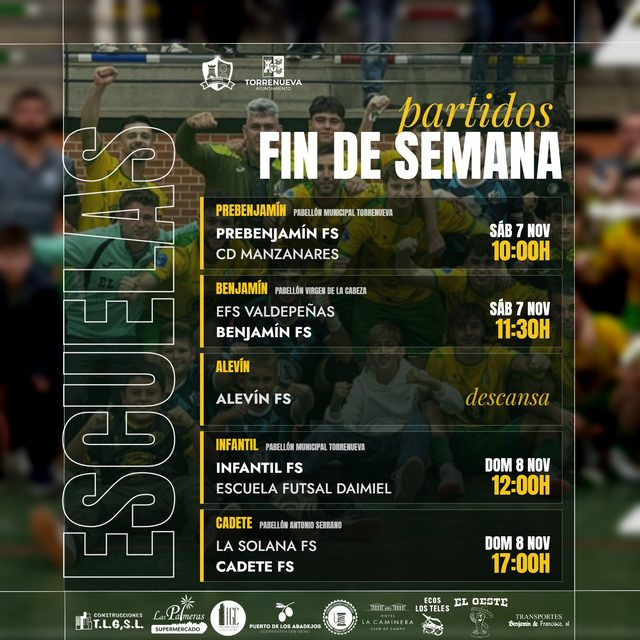
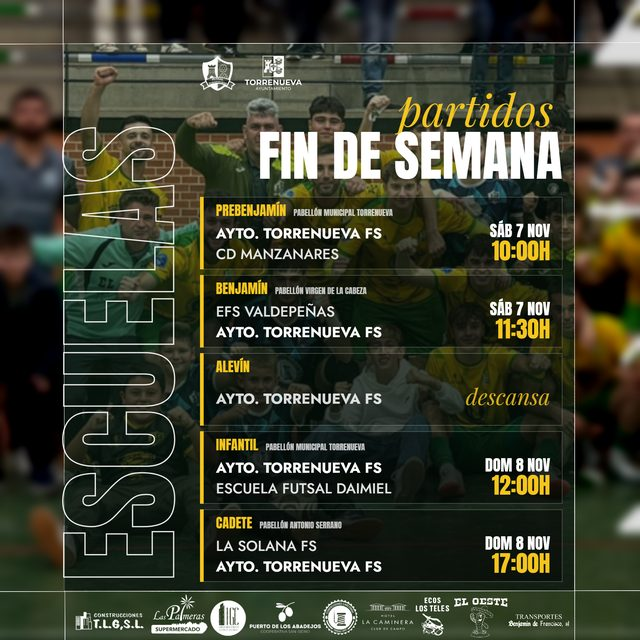
Escuelas: nuestro equipo como "AYTO. TORRENUEVA FS"
La categoría ya va en la etiqueta amarilla de cada tarjeta, así que no se repite en el
nombre. En el texto de Instagram va delante de cada partido. Se equilibra el espacio de
las tarjetas del story para el nombre más largo.

diff --git a/js/escuelas.js b/js/escuelas.js
@@ -1,6 +1,7 @@
 /* Escuelas deportivas (del ayuntamiento, no del Torrenueva Futsal): lo común a las
    plantillas de partidos y resultados.
-   - Cinco categorías; nuestro equipo en cada una es "<CATEGORÍA> FS".
+   - Cinco categorías; nuestro equipo es "AYTO. TORRENUEVA FS" en todas (la categoría ya
+     va en la etiqueta amarilla de cada tarjeta, para no repetirla).
    - Diseño propio, más atrevido que el del sénior (solo comparte el cuadro de líneas y los
      patrocinadores): foto con tinte verde del club, "ESCUELAS" en vertical con contorno a
      la izquierda, logos del club y del ayuntamiento y título arriba, y una tarjeta por
@@ -17,7 +18,10 @@ const Escuelas = (() => {
     { id: "infantil", nombre: "INFANTIL", corto: "Infantil" },
     { id: "cadete", nombre: "CADETE", corto: "Cadete" },
   ];
-  const nuestro = (i) => `${CATEGORIAS[i].nombre} FS`;
+  const NUESTRO = "AYTO. TORRENUEVA FS";
+  const nuestro = () => NUESTRO;
+  // "Alevín" para los textos.
+  const categoria = (i) => CATEGORIAS[i].nombre.charAt(0) + CATEGORIAS[i].nombre.slice(1).toLowerCase();
 
   const LOGOS = { club: "assets/club/escudo-blanco.png", ayuntamiento: "assets/club/ayuntamiento-blanco.png" };
   const AMARILLO = "#f4c51d";
@@ -116,6 +120,7 @@ const Escuelas = (() => {
   function pintarTarjeta(ctx, i, x0, x1, y, h, modo) {
     const e = estado.escuelas[i];
     const k = Math.min(h, 400) / 236;
+    const kd = Math.min(k, 1.3); // lo de la derecha (día, hora, goles) crece menos, para dejar sitio a los nombres
     const top = y + (h - 236 * k) / 2; // contenido centrado si la tarjeta es más alta
     const pad = 40 * k;
 
@@ -148,14 +153,14 @@ const Escuelas = (() => {
     const filas = [top + 135 * k, top + 202 * k];
     const tamNombre = tam(ctx, FUTURA(700), "H", 33 * k);
     // En partidos se deja a la derecha sitio para el día y la hora.
-    const anchoNombres = (derecha - xt) * (modo === "partidos" ? 0.56 : 0.8);
+    const anchoNombres = (derecha - xt) * (modo === "partidos" ? 0.6 : 0.8);
 
     if (!e.juega) {
       ctx.globalAlpha = 0.85;
-      Estudio.textoAjustado(ctx, nuestro(i), FUTURA(700), tamNombre, xt, filas[0] + 30 * k, anchoNombres);
+      Estudio.textoAjustado(ctx, nuestro(i), FUTURA(700), tamNombre, xt, filas[0] + 30 * k, (derecha - xt) * 0.58);
       ctx.fillStyle = AMARILLO;
       ctx.textAlign = "right";
-      ctx.font = PLAYFAIR_CURSIVA(tam(ctx, PLAYFAIR_CURSIVA, "d", 58 * k));
+      ctx.font = PLAYFAIR_CURSIVA(tam(ctx, PLAYFAIR_CURSIVA, "d", 58 * kd));
       ctx.fillText("descansa", derecha, filas[0] + 34 * k);
       ctx.fillStyle = "#fff";
       ctx.globalAlpha = 1;
@@ -175,10 +180,10 @@ const Escuelas = (() => {
       // A la derecha: el día grande y la hora en amarillo.
       ctx.textAlign = "right";
       const dia = fechaCorta(e.fecha);
-      if (dia) Estudio.textoAjustado(ctx, dia, ANTON, tam(ctx, ANTON, "H", 44 * k), derecha, filas[0] - 4 * k, (derecha - xt) * 0.32);
+      if (dia) Estudio.textoAjustado(ctx, dia, ANTON, tam(ctx, ANTON, "H", 44 * kd), derecha, filas[0] - 4 * k, (derecha - xt) * 0.34);
       if (e.hora) {
         ctx.fillStyle = AMARILLO;
-        ctx.font = ANTON(tam(ctx, ANTON, "H", 64 * k));
+        ctx.font = ANTON(tam(ctx, ANTON, "H", 64 * kd));
         ctx.fillText(`${e.hora}H`, derecha, filas[1] + 4 * k);
         ctx.fillStyle = "#fff";
       }
@@ -187,7 +192,7 @@ const Escuelas = (() => {
       const goles = e.enCasa ? [e.gn, e.gr] : [e.gr, e.gn];
       const hay = goles.some((g) => String(g) !== "");
       ctx.textAlign = "right";
-      ctx.font = PLAYFAIR(tam(ctx, PLAYFAIR, "0", 54 * k));
+      ctx.font = PLAYFAIR(tam(ctx, PLAYFAIR, "0", 54 * kd));
       equipos.forEach((eq, f) => {
         ctx.fillStyle = eq.nuestro ? AMARILLO : "#fff";
         ctx.fillText(hay ? String(goles[f] || 0) : "–", derecha, filas[f] + 6 * k);
@@ -280,7 +285,7 @@ const Escuelas = (() => {
             <input type="text" data-campo="lugar" autocomplete="off">
           </label>` : `
           <div class="fila">
-            <label>Goles ${c.nombre.toLowerCase()} FS <input type="number" data-campo="gn" inputmode="numeric" min="0"></label>
+            <label>Goles Ayto. Torrenueva <input type="number" data-campo="gn" inputmode="numeric" min="0"></label>
             <label>Goles rival <input type="number" data-campo="gr" inputmode="numeric" min="0"></label>
           </div>`}
         </div>`;
@@ -349,5 +354,5 @@ const Escuelas = (() => {
     activar(0);
   }
 
-  return { CATEGORIAS, DISENOS, nuestro, enOrden, enOrdenTexto, fechaCorta, cargarLogos, pintar, crearFormulario };
+  return { CATEGORIAS, DISENOS, nuestro, categoria, enOrden, enOrdenTexto, fechaCorta, cargarLogos, pintar, crearFormulario };
 })();

diff --git a/js/escuelas-partidos.js b/js/escuelas-partidos.js
@@ -23,11 +23,11 @@ Estudio.iniciar({
 Textos.iniciar(() => {
   const bloques = Escuelas.CATEGORIAS.map((c, i) => {
     const e = estado.escuelas[i];
-    if (!e.juega) return [`🔹 {f:${Escuelas.nuestro(i)}}: descansa`];
+    if (!e.juega) return [`🔹 {f:${Escuelas.categoria(i)}}: descansa`];
     const [local, visitante] = Escuelas.enOrdenTexto(i);
     const fecha = Textos.fechaTexto(e.fecha);
     const cuando = [fecha && fecha.charAt(0).toUpperCase() + fecha.slice(1), e.hora && `${e.hora}h`].filter(Boolean).join(" · ");
-    return [`🔹 ${local} vs ${visitante}`, cuando && `📅 ${cuando}`, e.lugar.trim() && `📍 ${Textos.capitalizar(e.lugar)}`];
+    return [`🔹 {f:${Escuelas.categoria(i)}}: ${local} vs ${visitante}`, cuando && `📅 ${cuando}`, e.lugar.trim() && `📍 ${Textos.capitalizar(e.lugar)}`];
   });
   return Textos.unir(["{c:escuelas} {f:DEPORTIVAS} ⚽", "Partidos del fin de semana"], ...bloques, ["¡Vamos, chavales! 💛💚"]);
 });

diff --git a/js/escuelas-resultados.js b/js/escuelas-resultados.js
@@ -24,11 +24,11 @@ Estudio.iniciar({
 Textos.iniciar(() => {
   const lineas = Escuelas.CATEGORIAS.map((c, i) => {
     const e = estado.escuelas[i];
-    if (!e.juega) return `🔹 {f:${Escuelas.nuestro(i)}}: descansa`;
+    if (!e.juega) return `🔹 {f:${Escuelas.categoria(i)}}: descansa`;
     const [local, visitante] = Escuelas.enOrdenTexto(i);
     const [gl, gv] = e.enCasa ? [e.gn, e.gr] : [e.gr, e.gn];
     const marcador = String(gl) !== "" || String(gv) !== "" ? ` {f:${gl || 0} - ${gv || 0}} ` : " vs ";
-    return `🔹 ${local}${marcador}${visitante}`;
+    return `🔹 {f:${Escuelas.categoria(i)}}: ${local}${marcador}${visitante}`;
   });
   return Textos.unir(["{c:escuelas} {f:DEPORTIVAS} ⚽", "Resultados del fin de semana"], lineas, ["¡Bien, chavales! 💛💚"]);
 });
